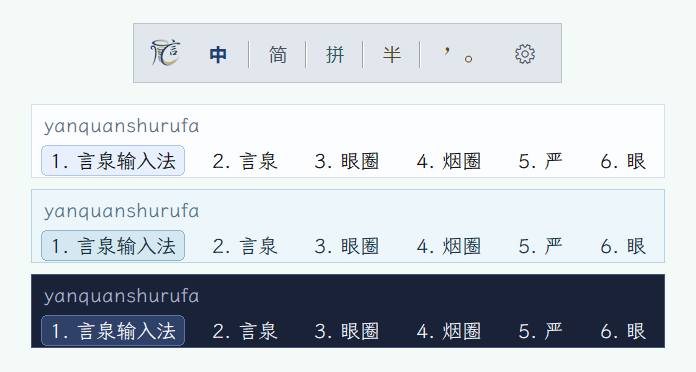
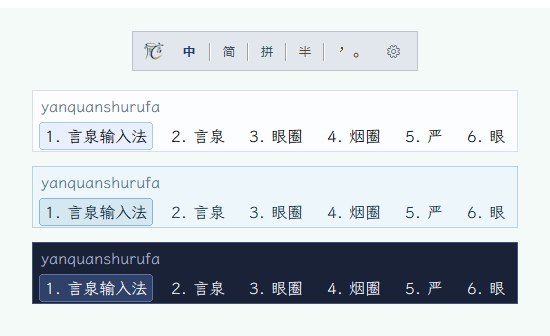
Add user dictionary reset and document v1.5 benchmarks

diff --git a/README.md b/README.md
@@ -97,6 +97,8 @@ Cassotis v1.3.0 adds the project's first deployable neural residual reranker. Th
 
 Cassotis v1.4.0 extends the same offline-training approach to short-word input. A separate context reranker combines character-LM evidence with the text immediately before the cursor when comparing exact candidates. It only participates when left context is available and the query has competing exact candidates; without usable context, the original short-word order is retained.
 
+Cassotis v1.5.0 extends short-word context ranking into a two-stage local neural reranker. The first stage selects the exact candidate that best fits the preceding text, while an independently trained residual model conservatively corrects that result only when its score advantage clears a promotion threshold. Short-word input without context remains outside this model path.
+
 The statistical model is quantized into the local dictionary database, while the compact rerankers are exported as deterministic native Pascal parameters. Runtime scoring is local and bounded: it starts no PyTorch/ONNX environment or external model service and requires no network connection or GPU. Long-sentence and short-word ranking remain separate paths, so improvements to one do not replace the other's matching rules.
 
 ## Long Sentence Benchmark-16300
@@ -121,6 +123,17 @@ Corpus: 16,300 eligible Chinese sentences from the developer's own novel [**Eleg
 
 Latency values are engine-only full-query decode times. Each complete Pinyin query is assigned at once, so these values do not represent incremental keystroke-to-display latency. `—` means that the version was not measured under this latency protocol. See [BENCHMARK.md](BENCHMARK.md) for the complete methodology.
 
+## Short-word Benchmark-65000 (No Context)
+This track uses the same 65,000 two- to four-character word cases as the following section, but does not provide the engine with text already committed before the cursor. It measures base-dictionary and no-context short-word ranking with user-dictionary ranking disabled.
+
+See [BENCHMARK.md](BENCHMARK.md) for the shared corpus source, short-word case construction, scoring rules, and latency protocol. `Contested` is the subset where the same Pinyin query maps to at least two expected words in the corpus.
+
+| Version | Top1 | Top2 | Contested Top1 | Contested Top2 | Mean (ms) | P50 (ms) | P95 (ms) | Max (ms) |
+|---|---:|---:|---:|---:|---:|---:|---:|---:|
+| `v1.5.0` | 59088/65000 (90.90%) | 62915/65000 (96.79%) | 8335/11728 (71.07%) | 10414/11728 (88.80%) | 4.941 | 4.027 | 9.850 | 137.979 |
+
+Latency values are engine-only per-query times for the no-context track and do not include TSF or candidate-window rendering.
+
 ## Short-word Context Benchmark-65000
 This benchmark contains 65,000 occurrences of two- to four-character words, each paired with the sentence prefix already committed before that word. Its cases use the same novel text as Benchmark-16300 as their source and are excluded from short-context model training. User-dictionary ranking is disabled during evaluation.
 
@@ -130,6 +143,7 @@ See [BENCHMARK.md](BENCHMARK.md) for the shared corpus source, short-word case c
 
 | Version | Top1 | Top2 | Contested Top1 | Contested Top2 | Mean (ms) | P50 (ms) | P95 (ms) | Max (ms) |
 |---|---:|---:|---:|---:|---:|---:|---:|---:|
+| `v1.5.0` | 61045/65000 (93.92%) | 63364/65000 (97.48%) | 9159/11728 (78.10%) | 10677/11728 (91.04%) | 5.033 | 4.113 | 9.968 | 142.372 |
 | `v1.4.0` | 60676/65000 (93.35%) | 63251/65000 (97.31%) | 8993/11728 (76.68%) | 10602/11728 (90.40%) | 5.573 | 4.521 | 11.157 | 158.687 |
 | `v1.3.0` | 59078/65000 (90.89%) | 62881/65000 (96.74%) | 8326/11728 (70.99%) | 10386/11728 (88.56%) | 5.460 | 4.396 | 10.939 | 176.912 |
 